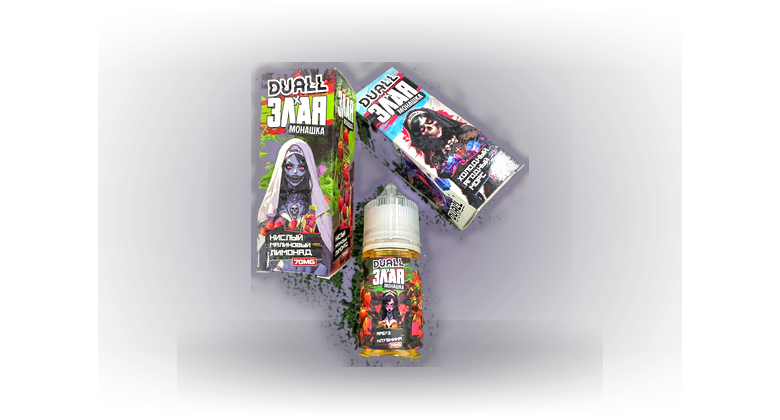
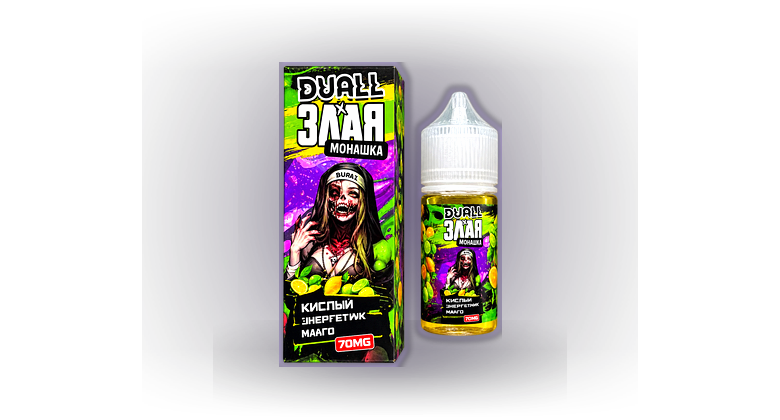
monh (Zлая монашка Х Duall): new card from cut-out PNG, rotated upright

diff --git a/miniapp/index.html b/miniapp/index.html
@@ -5,7 +5,7 @@
 <meta name="viewport" content="width=device-width, initial-scale=1, maximum-scale=1, user-scalable=no">
 <title>VapeOasis — мини-приложение</title>
 <script src="https://telegram.org/js/telegram-web-app.js"></script>
-<link rel="stylesheet" href="style.css?v=20261013h">
+<link rel="stylesheet" href="style.css?v=20261013i">
 </head>
 <body>
 <div id="fx"></div>
@@ -82,7 +82,7 @@
 
 <div class="sheet" id="sheet"><div class="in" id="sheetIn"></div></div>
 
-<script src="products.js?v=20261013h"></script>
-<script src="app.js?v=20261013h"></script>
+<script src="products.js?v=20261013i"></script>
+<script src="app.js?v=20261013i"></script>
 </body>
 </html>

diff --git a/miniapp/app.js b/miniapp/app.js
@@ -20,7 +20,7 @@ let discountPick = localStorage.getItem("vo_disc") || null; // жижа, на к
 
 const $ = s=>document.querySelector(s);
 const money = n=>n+"₽";
-const IMG_VER = "20261013h";
+const IMG_VER = "20261013i";
 const imgv = u => u ? (u.indexOf("?")>=0 ? u : u+"?v="+IMG_VER) : u;
 const byId = id=>PRODUCTS.find(p=>p.id===id);
 const catEmoji = c=>({liquids:"🧪",pods:"🔌",disposable:"💨",cartridges:"♻",snus:"📦"}[c]||"•");
